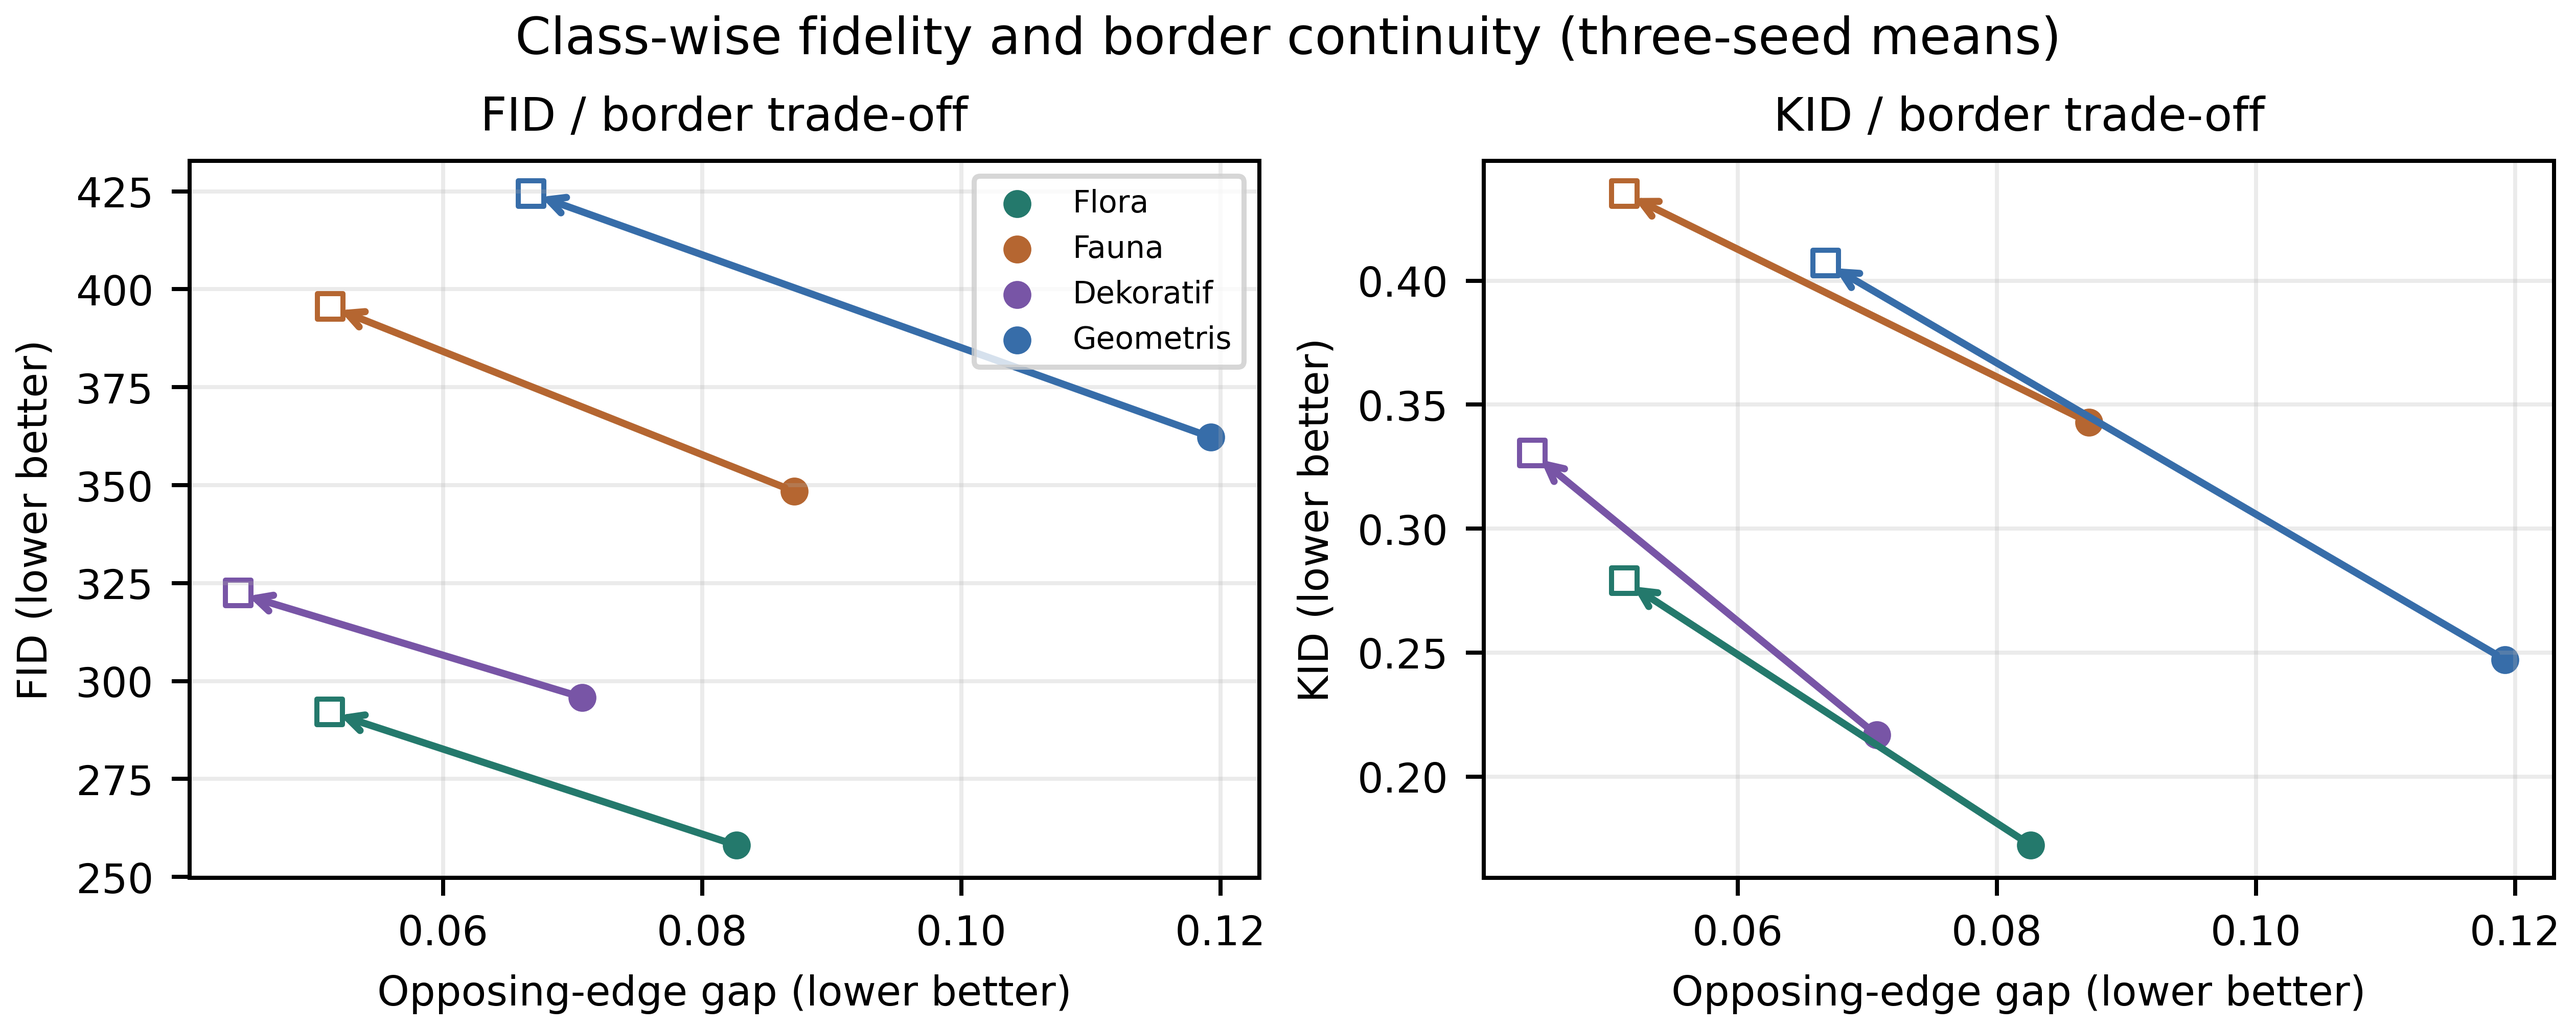
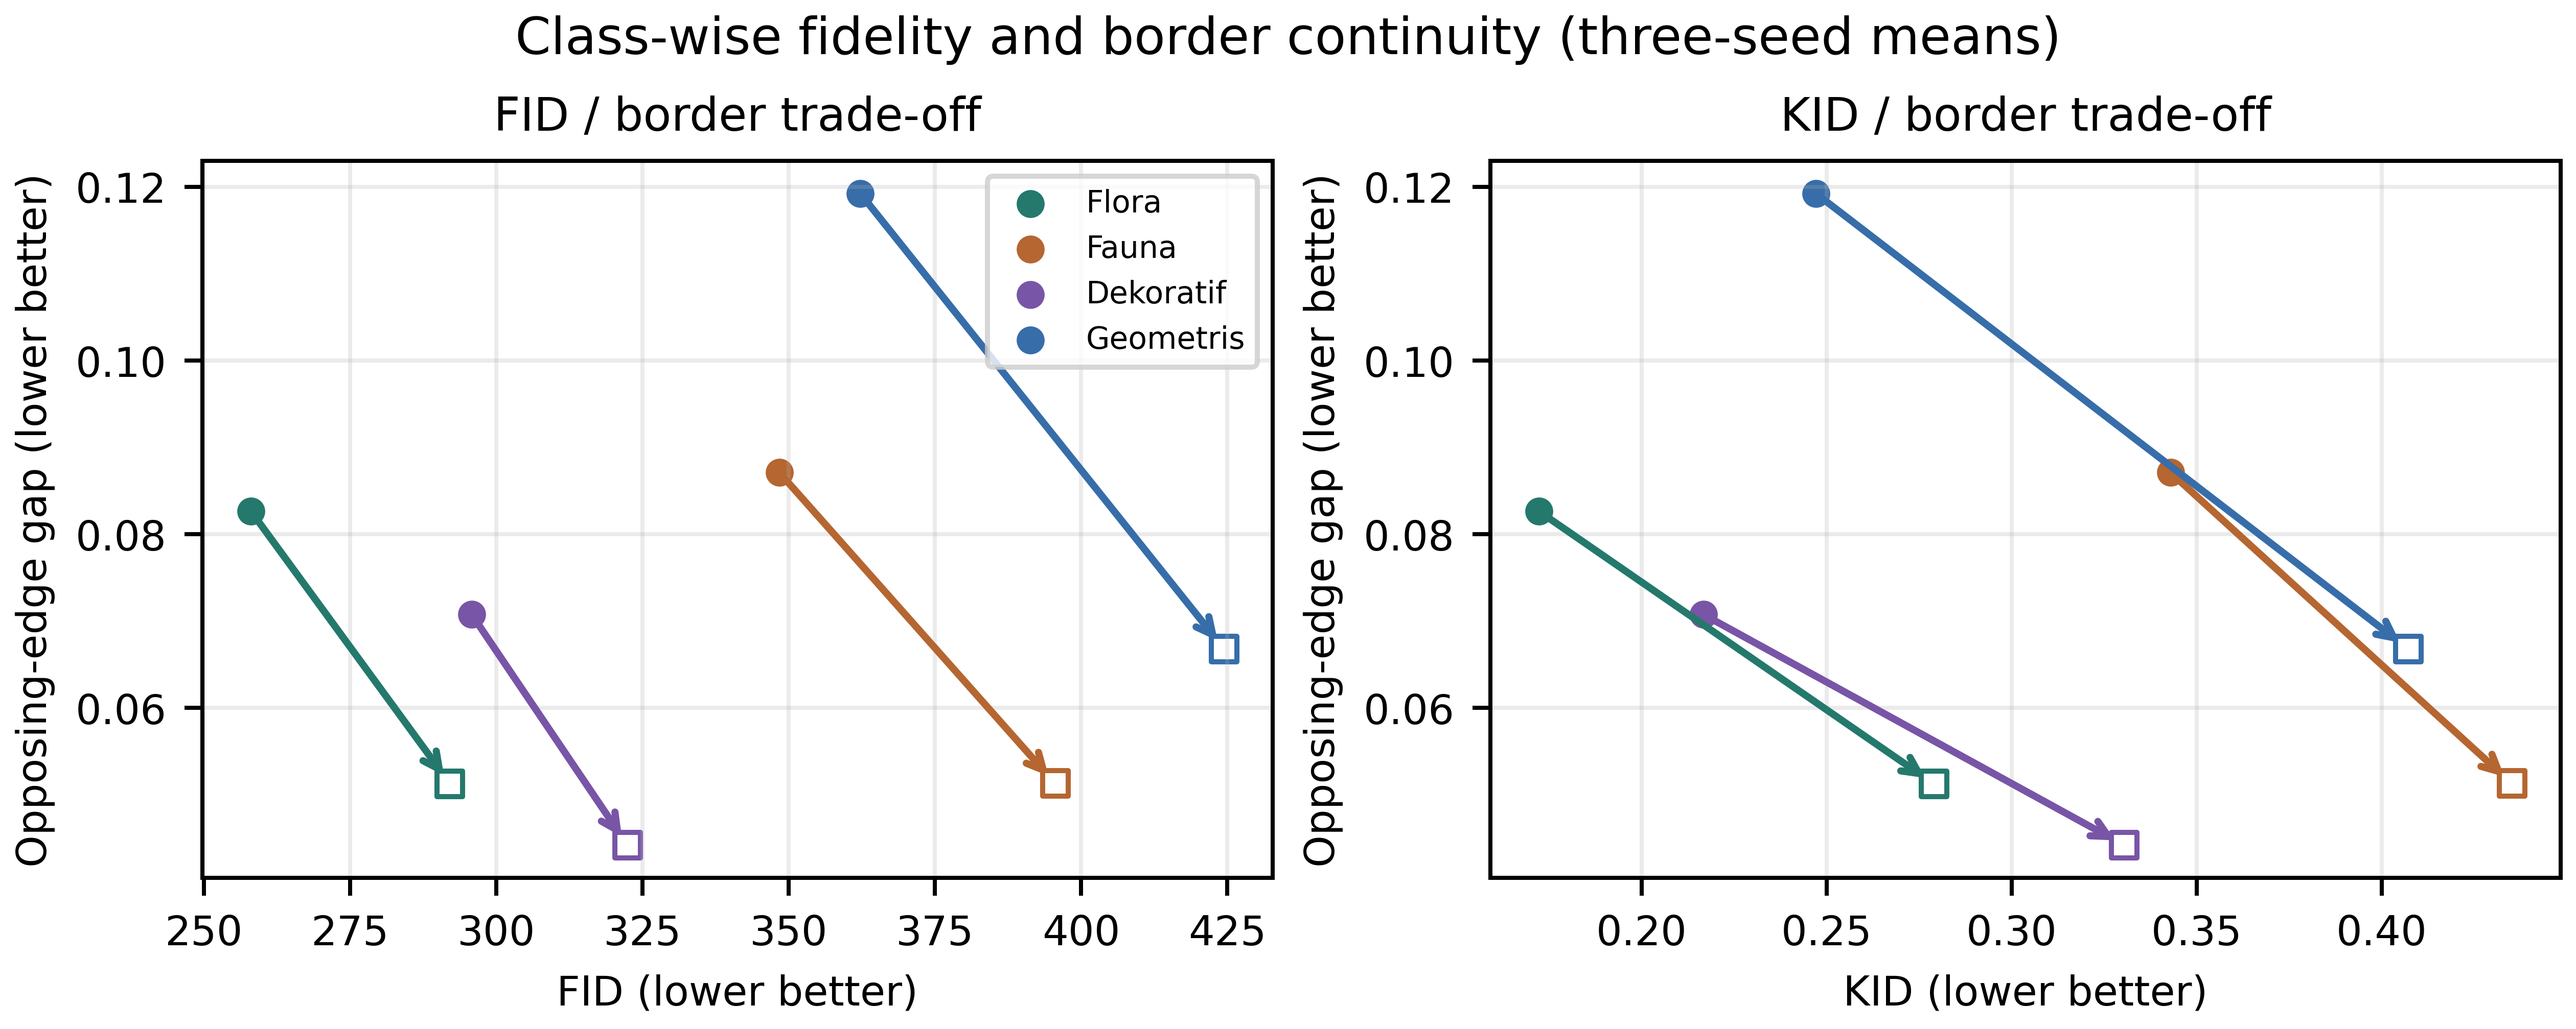
Add post hoc RQ2 diagnostics and align Figure 12 axes

diff --git a/scripts/export_paper_figures_720dpi.py b/scripts/export_paper_figures_720dpi.py
@@ -56,13 +56,13 @@ plt.rcParams.update({'font.size':8,'axes.titlesize':9})
 fig,axes=plt.subplots(1,2,figsize=(7,2.8),layout='constrained')
 for ax,col in zip(axes,['FID','KID']):
  for cat,color in zip(cats,colors):
-  a=(m('transformer',cat,'seam_gap'),m('transformer',cat,col))
-  b=(m('seam_proposed',cat,'seam_gap'),m('seam_proposed',cat,col))
+  a=(m('transformer',cat,col),m('transformer',cat,'seam_gap'))
+  b=(m('seam_proposed',cat,col),m('seam_proposed',cat,'seam_gap'))
   ax.annotate('',xy=b,xytext=a,arrowprops={'arrowstyle':'->','color':color,'lw':1.4})
   ax.scatter(*a,color=color,marker='o',s=20,label=cat.title())
   ax.scatter(*b,facecolors='none',edgecolors=color,marker='s',s=25)
- ax.set_xlabel('Opposing-edge gap (lower better)')
- ax.set_ylabel(col+' (lower better)');ax.set_title(col+' / border trade-off');ax.grid(alpha=.25)
+ ax.set_xlabel(col+' (lower better)')
+ ax.set_ylabel('Opposing-edge gap (lower better)');ax.set_title(col+' / border trade-off');ax.grid(alpha=.25)
 axes[0].legend(fontsize=6,loc='best')
 fig.suptitle('Class-wise fidelity and border continuity (three-seed means)',fontsize=10)
 dest=O/'Fig_12_Endek_T2I_720dpi.png';fig.savefig(dest,dpi=720);plt.close(fig)
@@ -91,6 +91,6 @@ lines=['# IEEE Access Endek T2I: Figure package (720 dpi)','',
 '**Rights and scope.** Figure 1 shows already-public original-source textile samples; publication rights still need author confirmation. Figure 11 contains image-conditioned training-only results, not held-out text-to-image tests. Neither figure set is artisan-certified.','',
 '## Figure index','']
 for x in meta:lines.append(f"- [Fig. {x['figure']}: {x['caption']}]({x['file']})")
-lines+=['','See [FIGURE_MANIFEST.csv](FIGURE_MANIFEST.csv) for dimensions, sources and SHA-256 checksums.']
+lines+=['','See [FIGURE_MANIFEST.csv](FIGURE_MANIFEST.csv) for dimensions, sources and SHA-256 checksums.','','**Figure 12 axis parity:** Horizontal FID/KID (lower better), vertical opposing-border gap (lower better), matching the manuscript. Arrows connect the no-seam circle with the proposed square. This is the class-wise held-out plot, not the supplementary 1/4/8-pixel check.']
 (O/'README.md').write_text('\n'.join(lines)+'\n',encoding='utf-8')
 print(json.dumps({'figure_count':len(meta),'folder':str(O),'max_bytes':max((O/x['file']).stat().st_size for x in meta),'source_dpi_below_600':sum(isinstance(x['source_px_per_paper_in'],float) and x['source_px_per_paper_in']<600 for x in meta)},indent=2))

diff --git a/README.md b/README.md
@@ -38,6 +38,22 @@ All **13 manuscript figures** are indexed in the [720-dpi figure package](figure
 
 Full private source images, prompt-linked metadata, all checkpoints and source-level provenance remain excluded from the public release. Research figures and aggregate results support auditability, not unaided full training replication. **Do not use the earlier EndekGAN-T2I repository as the evidence source for this study.**
 
+### Post hoc boundary-width and fixed-latent checks (Supplementary RQ2 evidence)
+
+These checks were run *after* review of the primary results, without retraining or selecting new checkpoints on the test set. They are **exploratory** and were not the prespecified RQ outcomes.
+
+| RGB opposing-border width | No-seam gap ↓ | Proposed gap ↓ | Proposed lower across 12 class–seed cells |
+|---|---:|---:|---:|
+| 1 px | 0.08993 | 0.05338 | 12/12 |
+| 4 px | 0.10825 | 0.05643 | 12/12 |
+| 8 px | 0.10582 | 0.08940 | 9/12 |
+
+All 1,536 held-out Arm B generated images were checked. The 1-pixel recomputation agreed with previously recorded values. The extended metric is the mean aligned left/right and top/bottom strip RGB-L1 discrepancy, not a complete perception-based tileability measure.
+
+A second inference-only intervention used the two existing model variants, all three seeds and four categories, three single-attribute changes (color, layout, technique), and four matched latent vectors: **288 fixed-latent prompt pairs**. Mean no-seam versus proposed image RMSE was **0.01222 / 0.00443** (color), **0.00488 / 0.00159** (layout), and **0.01383 / 0.00510** (technique). A crude unvalidated color-direction rule passed **12/48** no-seam versus **27/48** proposed pairs. These figures show responsiveness to text changes, not verified semantics, accurate ornament identity, or cultural acceptance.
+
+The quantitative summaries are available in [band-width pooled results](results/BAND_GAP_POOLED_1_4_8_20261120.csv), [paired class–seed strip-width results](results/BAND_GAP_PAIRED_12CELLS_20261120.csv), and [counterfactual summary](results/PROMPT_FIXED_LATENT_SUMMARY_20261120.csv). No source-linked prompt texts, complete private dataset, or training checkpoints have been added to the public release.
+
 ## Code and data availability (IEEE Access)
 
 See the [manuscript-aligned availability statement and evidence map](docs/CODE_AND_DATA_AVAILABILITY_IEEE.md). This public release contains research scripts, sanitized notebooks, aggregate source counts, three-seed numerical results and selected images. The **complete private Endek source dataset, derived training views, source-linked prompt metadata, full logs and trained checkpoints are not released**, so full training cannot be reproduced from public files alone. The source-image montage already visible in Figure 1 requires public redistribution-rights verification.

diff --git a/figures/paper_IEEE_Access_720dpi_20261120/README.md b/figures/paper_IEEE_Access_720dpi_20261120/README.md
@@ -23,3 +23,5 @@ All 13 figures correspond to the November 20, 2026 manuscript and contain no pri
 - [Fig. 13: Per-class LPIPS diversity diagnostics](Fig_13_Endek_T2I_720dpi.png)
 
 See [FIGURE_MANIFEST.csv](FIGURE_MANIFEST.csv) for dimensions, sources and SHA-256 checksums.
+
+**Figure 12 axis parity:** Horizontal FID/KID (lower better), vertical opposing-border gap (lower better), matching the manuscript. Arrows connect the no-seam circle with the proposed square. This is the class-wise held-out plot, not the supplementary 1/4/8-pixel check.
